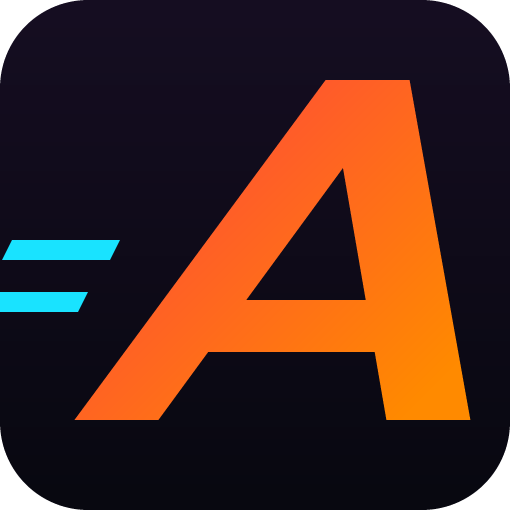
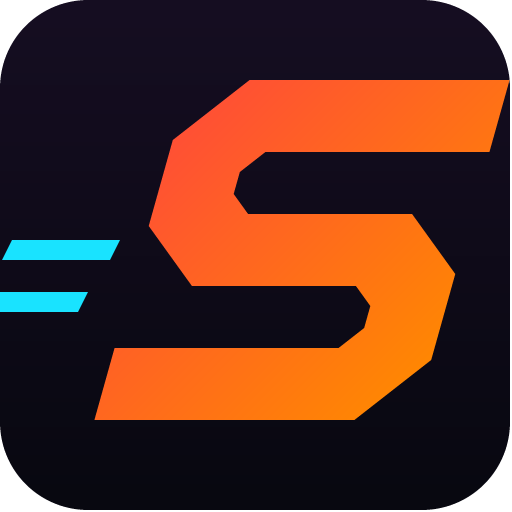
v2.5: relay-ready online, quick reverse-to-forward, last APEX RUSH names gone
- Online: the games could only find direct routes (STUN), and the game's ICE list
  replaced PeerJS's relays (which no longer exist anyway), so pairs of networks with
  no direct route failed with CAN'T CONNECT ON THIS NETWORK. Relay (TURN) servers now
  come from net-config.json on the website, so a relay can be switched on for the
  browser, exe and phone app without a rebuild.
- Gas while rolling backwards brakes as hard as the brake pedal does going forward;
  the corner speed-keep no longer fights it (it took 5+ s to get going again).
- Rename leftovers: storage keys slamline.* (old saves move over once), exe settings
  folder %APPDATA%\Slamline (moved on first run), Android package com.slamline.game,
  PeerJS ids slamline-<code>, build folders, icon redrawn as an S.

Changed region(s): [[0.2188, 0.1562, 1.0, 0.8438], [0.1562, 0.7188, 0.2188, 0.8438]]

diff --git a/src/net/peer.js b/src/net/peer.js
@@ -4,15 +4,35 @@
 // sendState(buf) / onState for car states (unordered, never resent: a late state is useless).
 //
 // The real thing is WebRTC via PeerJS (vendor/peerjs). PeerJS's free cloud broker only does
-// the handshake; the games then talk directly. PeerJS opens the reliable channel; the fast one
+// the handshake; the games then talk directly, or through a relay when the two networks have no
+// direct route (see iceServers). PeerJS opens the reliable channel; the fast one
 // is a second, pre-negotiated data channel on the same connection (no extra signalling).
 // SimLink fakes a connection with lag, jitter and loss for tests: in one page (simPair) or
 // between two tabs of the same browser (BroadcastChannel, ?netsim in the URL).
 import { makeCode, peerId } from './protocol.js';
 
-const ICE = [{ urls: 'stun:stun.l.google.com:19302' }, { urls: 'stun:stun1.l.google.com:19302' }];
+const STUN = [{ urls: 'stun:stun.l.google.com:19302' }, { urls: 'stun:stun.cloudflare.com:3478' }];
+// STUN only finds a direct route; some pairs of networks have none, and then the games need a
+// relay (TURN). The relay settings live in net-config.json on the game's website, so the exe and
+// the phone app pick up a new relay without an update:
+//   { "turn": "<url that returns ICE servers>" }  or  { "iceServers": [...] }
+const NET_CONFIG = 'https://rehmozayub.github.io/slamline/net-config.json';
 const FAST_ID = 42; // data channel id for car states (PeerJS's own channel uses a low id)
-const TIMEOUT = { broker: 10000, join: 15000 };
+const TIMEOUT = { broker: 10000, join: 15000, config: 3000 };
+
+async function iceServers() {
+  const get = async (url) => {
+    const r = await fetch(url, { cache: 'no-store', signal: AbortSignal.timeout(TIMEOUT.config) });
+    if (!r.ok) throw new Error(`${url}: ${r.status}`);
+    return r.json();
+  };
+  try {
+    const cfg = await get(NET_CONFIG);
+    let relay = cfg.iceServers || [];
+    if (cfg.turn) { const j = await get(cfg.turn); relay = Array.isArray(j) ? j : j.iceServers || []; }
+    return [...STUN, ...relay];
+  } catch { return STUN; } // no relay: direct routes still work
+}
 
 export class NetError extends Error {
   constructor(code, text) { super(text); this.code = code; this.text = text; }
@@ -40,7 +60,7 @@ class PeerLink extends Link {
     this.conn = conn;
     this.peer = peer;
     const pc = conn.peerConnection;
-    this.fast = pc.createDataChannel('apex-state', { negotiated: true, id: FAST_ID, ordered: false, maxRetransmits: 0 });
+    this.fast = pc.createDataChannel('slam-state', { negotiated: true, id: FAST_ID, ordered: false, maxRetransmits: 0 });
     this.fast.binaryType = 'arraybuffer';
     this.fast.onmessage = (e) => { if (this.onState) this.onState(e.data); };
     conn.on('data', (d) => { if (this.onMessage) this.onMessage(d); });
@@ -96,10 +116,10 @@ function brokerError(e) {
 // rejoins in the lobby). Resolves to { code, close() } once the code is registered.
 export async function host(onGuest, onError = () => {}) {
   if (simMode()) return simHost(onGuest);
-  const { Peer } = await loadPeerJS();
+  const [{ Peer }, ice] = await Promise.all([loadPeerJS(), iceServers()]);
   for (let attempt = 0; attempt < 4; attempt++) {
     const code = makeCode();
-    const peer = new Peer(peerId(code), { config: { iceServers: ICE }, debug: 0 });
+    const peer = new Peer(peerId(code), { config: { iceServers: ice }, debug: 0 });
     const ok = await new Promise((resolve) => {
       const t = setTimeout(() => resolve(new NetError('broker', "CAN'T REACH THE ONLINE SERVICE")), TIMEOUT.broker);
       peer.on('open', () => { clearTimeout(t); resolve(true); });
@@ -125,8 +145,8 @@ export async function host(onGuest, onError = () => {}) {
 // Join the game with this code. Resolves to a Link, or rejects with a NetError.
 export async function join(code) {
   if (simMode()) return simJoin(code);
-  const { Peer } = await loadPeerJS();
-  const peer = new Peer({ config: { iceServers: ICE }, debug: 0 });
+  const [{ Peer }, ice] = await Promise.all([loadPeerJS(), iceServers()]);
+  const peer = new Peer({ config: { iceServers: ice }, debug: 0 });
   return new Promise((resolve, reject) => {
     let done = false;
     const fail = (err) => { if (done) return; done = true; clearTimeout(t); peer.destroy(); reject(err); };
@@ -221,7 +241,7 @@ function simOpts() {
 }
 
 function simChannel(code, me) {
-  const bc = new BroadcastChannel(`apexrush-sim-${code}`);
+  const bc = new BroadcastChannel(`slamline-sim-${code}`);
   const link = new SimLink((kind, data) => bc.postMessage({ from: me, kind, data }), simOpts());
   bc.onmessage = (e) => { if (e.data.from !== me) link.deliver(e.data.kind, e.data.data); };
   const close = link.close.bind(link);
@@ -231,7 +251,7 @@ function simChannel(code, me) {
 
 async function simHost(onGuest) {
   const code = makeCode();
-  const lobby = new BroadcastChannel('apexrush-sim-lobby');
+  const lobby = new BroadcastChannel('slamline-sim-lobby');
   const links = new Set();
   lobby.onmessage = (e) => {
     if (e.data.type !== 'join' || e.data.code !== code) return;
@@ -245,7 +265,7 @@ async function simHost(onGuest) {
 
 function simJoin(code) {
   return new Promise((resolve, reject) => {
-    const lobby = new BroadcastChannel('apexrush-sim-lobby');
+    const lobby = new BroadcastChannel('slamline-sim-lobby');
     const t = setTimeout(() => { lobby.close(); reject(new NetError('nogame', 'NO GAME WITH THAT CODE')); }, 3000);
     const gid = Math.random().toString(36).slice(2, 8);
     lobby.onmessage = (e) => {

diff --git a/src/config.js b/src/config.js
@@ -63,7 +63,7 @@ export const clampCars = (n) => Math.max(CAR_COUNT.min, Math.min(CAR_COUNT.max, 
 
 // Device: phones and tablets get touch controls, phone graphics presets and no split screen.
 const UA = typeof navigator !== 'undefined' ? navigator.userAgent || '' : '';
-export const IS_APP = /ApexRushAndroid/.test(UA); // the Android app (android/)
+export const IS_APP = /SlamlineAndroid/.test(UA); // the Android app (android/)
 export const IS_MOBILE = IS_APP || /Android|iPhone|iPad|iPod|Mobile/i.test(UA)
   || (/Macintosh/.test(UA) && typeof navigator !== 'undefined' && navigator.maxTouchPoints > 1); // iPadOS
 
@@ -100,10 +100,25 @@ export const AI_COUNT = 7;
 export const BOOST_SPEED = 1.32;
 export const BOOST_ACCEL = 1.7;
 
+const SETTINGS_KEY = 'slamline.settings';
+
+// Saves from before the rename used 'apexrush.' keys: carry the settings over once, drop the rest.
+function migrateStorage() {
+  try {
+    const old = localStorage.getItem('apexrush.settings');
+    if (old !== null && localStorage.getItem(SETTINGS_KEY) === null) localStorage.setItem(SETTINGS_KEY, old);
+    for (let i = localStorage.length - 1; i >= 0; i--) {
+      const k = localStorage.key(i);
+      if (k && k.startsWith('apexrush.')) localStorage.removeItem(k);
+    }
+  } catch { /* storage unavailable */ }
+}
+
 export function loadSettings() {
   const def = { quality: 'auto', autoQ: null, steering: 'slider', vibration: true, motionBlur: true, master: 0.8, music: 0.55, assist: true, assist2: true, cars: 8, bestLaps: {}, progress: { stars: {}, signatures: {}, totalTakedowns: 0 } };
+  migrateStorage();
   try {
-    const s = JSON.parse(localStorage.getItem('apexrush.settings') || '{}');
+    const s = JSON.parse(localStorage.getItem(SETTINGS_KEY) || '{}');
     const p = s.progress || {};
     return { ...def, ...s, bestLaps: { ...(s.bestLaps || {}) }, progress: { stars: { ...(p.stars || {}) }, signatures: { ...(p.signatures || {}) }, totalTakedowns: p.totalTakedowns || 0 } };
   } catch {
@@ -112,5 +127,5 @@ export function loadSettings() {
 }
 
 export function saveSettings(s) {
-  try { localStorage.setItem('apexrush.settings', JSON.stringify(s)); } catch { /* storage unavailable */ }
+  try { localStorage.setItem(SETTINGS_KEY, JSON.stringify(s)); } catch { /* storage unavailable */ }
 }

diff --git a/src/main.js b/src/main.js
@@ -1,4 +1,4 @@
-// SLAMLINE (formerly APEX RUSH) - boot, menus, game-state machine and main loop.
+// SLAMLINE - boot, menus, game-state machine and main loop.
 import * as THREE from 'three';
 import { Renderer } from './renderer.js';
 import { Input, keyPlayer } from './input.js';
@@ -650,14 +650,14 @@ class Game {
   // --- phones -----------------------------------------------------------------------
   bindDevice() {
     // the Android app's back button: false = not used here (title screen), so the app closes
-    window.__apexBack = () => {
+    window.__slamBack = () => {
       if (this.state === 'title') return false;
       if (this.state === 'results') this.quitToMenu();
       else if (this.state !== 'loading') this.onAction('back', 'android');
       return true;
     };
     // switching away from the game (app to background, phone call): pause and mute
-    window.__apexPause = () => this.toBackground();
+    window.__slamPause = () => this.toBackground();
     if (IS_MOBILE) document.addEventListener('visibilitychange', () => { if (document.hidden) this.toBackground(); else this.audio.resume(); });
     // phone browser: the first tap goes fullscreen and locks landscape where the browser allows it
     if (IS_MOBILE && !IS_APP && document.documentElement.requestFullscreen) {
@@ -669,9 +669,9 @@ class Game {
       }, { once: true });
     }
     // Android app: keep the HUD clear of the camera cutout
-    if (window.ApexAndroid) {
+    if (window.SlamlineAndroid) {
       const insets = () => {
-        const [l, t, r, b] = String(window.ApexAndroid.insets()).split(',').map((v) => Number(v) || 0);
+        const [l, t, r, b] = String(window.SlamlineAndroid.insets()).split(',').map((v) => Number(v) || 0);
         const st = document.documentElement.style;
         st.setProperty('--sl', `${l}px`); st.setProperty('--st', `${t}px`); st.setProperty('--sr', `${r}px`); st.setProperty('--sb', `${b}px`);
       };
@@ -697,7 +697,7 @@ class Game {
   }
 
   buzz(ms, strength = 180) {
-    if (window.ApexAndroid) window.ApexAndroid.vibrate(ms, strength);
+    if (window.SlamlineAndroid) window.SlamlineAndroid.vibrate(ms, strength);
     else if (navigator.vibrate) navigator.vibrate(ms);
   }
 

diff --git a/src/vehicle.js b/src/vehicle.js
@@ -104,7 +104,9 @@ export class Vehicle {
     const acc = sp.accel * mul * (this.boosting ? BOOST_ACCEL : 1);
     this.braking = false;
     if (c.throttle > 0) {
-      if (vF < top) {
+      // rolling back: gas brakes as hard as the brake pedal does going forward
+      if (vF < -0.5) vF = Math.min(0, vF + 34 * c.throttle * dt);
+      else if (vF < top) {
         const k = Math.max(0.08, 1 - Math.pow(Math.max(vF, 0) / top, 2));
         vF += acc * c.throttle * k * dt;
       } else vF -= (vF - top) * 1.2 * dt;
@@ -125,7 +127,7 @@ export class Vehicle {
     // arcade: keep most of the speed through corners instead of scrubbing it
     const keep = this.drifting ? 0.72 : 0.9;
     const newMag = Math.hypot(vF, vR);
-    if (newMag > 0.1 && oldMag > newMag && c.throttle > 0) {
+    if (newMag > 0.1 && oldMag > newMag && c.throttle > 0 && vF > 0) {
       const target = newMag + (oldMag - newMag) * keep;
       const f2 = Math.max(0, target * target - vR * vR);
       vF = Math.sign(vF || 1) * Math.sqrt(f2);

diff --git a/src/world.js b/src/world.js
@@ -7,7 +7,7 @@ import { LAYOUT_SCALE } from './maps/layouts.js';
 
 // The shortcut search takes about a second per track, so its result ({a, b, side} per shortcut)
 // is kept in localStorage; it only changes if the search rules or layouts change.
-const SC_KEY = 'apexrush.shortcuts.' + JSON.stringify([SHORTCUT, LAYOUT_SCALE]).split('').reduce((h, ch) => (h * 31 + ch.charCodeAt(0)) | 0, 7);
+const SC_KEY = 'slamline.shortcuts.' + JSON.stringify([SHORTCUT, LAYOUT_SCALE]).split('').reduce((h, ch) => (h * 31 + ch.charCodeAt(0)) | 0, 7);
 function shortcutsFor(id, track, index) {
   let saved = {};
   try { saved = JSON.parse(localStorage.getItem(SC_KEY) || '{}'); } catch { /* storage unavailable */ }

diff --git a/src/maps/city.js b/src/maps/city.js
@@ -6,7 +6,7 @@ import { addWorldDetail } from '../detail.js';
 import { windowTextures, neonSignTexture, radialTexture } from '../textures.js';
 
 const NEON = [0xff2d95, 0x19e3ff, 0xffd23f, 0x8a3cff, 0x3dff8a, 0xff6a2d];
-const SIGNS = ['NEON', 'HOTEL', 'RAMEN', 'CLUB 88', 'ARCADE', 'TURBO', 'NITRO', 'KARAOKE', 'APEX', 'DINER', 'OPEN 24H', 'SUSHI'];
+const SIGNS = ['NEON', 'HOTEL', 'RAMEN', 'CLUB 88', 'ARCADE', 'TURBO', 'NITRO', 'KARAOKE', 'GARAGE', 'DINER', 'OPEN 24H', 'SUSHI'];
 
 // Box with UVs scaled so a window tile covers 32 m x 64 m regardless of building size.
 function buildingGeo(w, h, d) {

diff --git a/src/net/protocol.js b/src/net/protocol.js
@@ -55,4 +55,4 @@ export function makeCode(rand = Math.random) {
   for (let i = 0; i < 4; i++) s += CODE_CHARS[Math.floor(rand() * CODE_CHARS.length)];
   return s;
 }
-export const peerId = (code) => `apexrush-${code.toUpperCase()}`;
+export const peerId = (code) => `slamline-${code.toUpperCase()}`;
